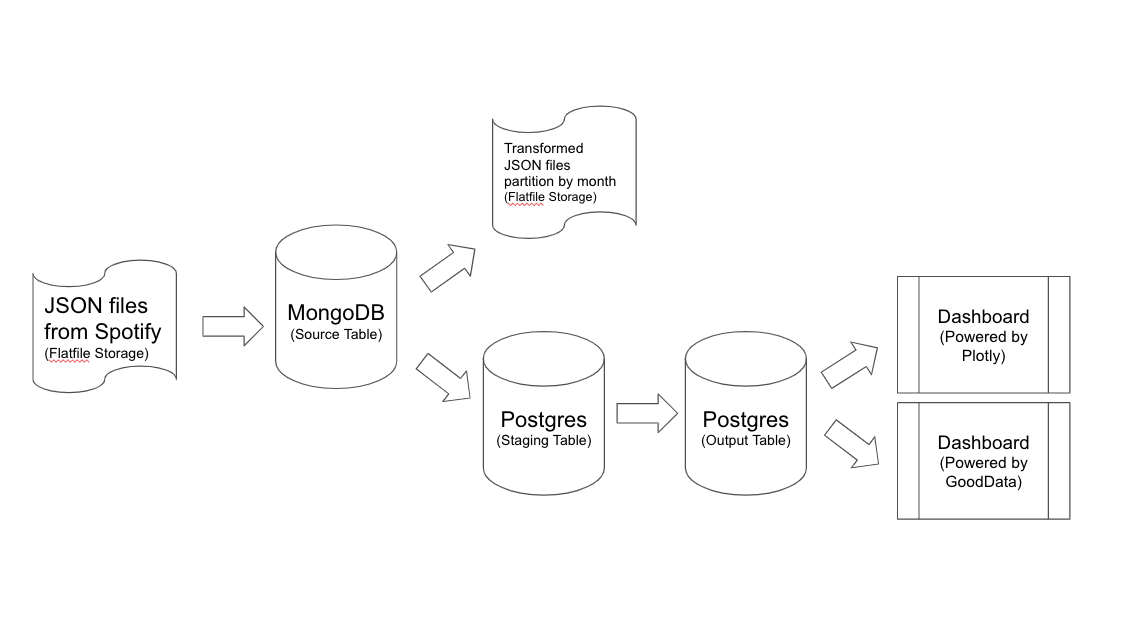
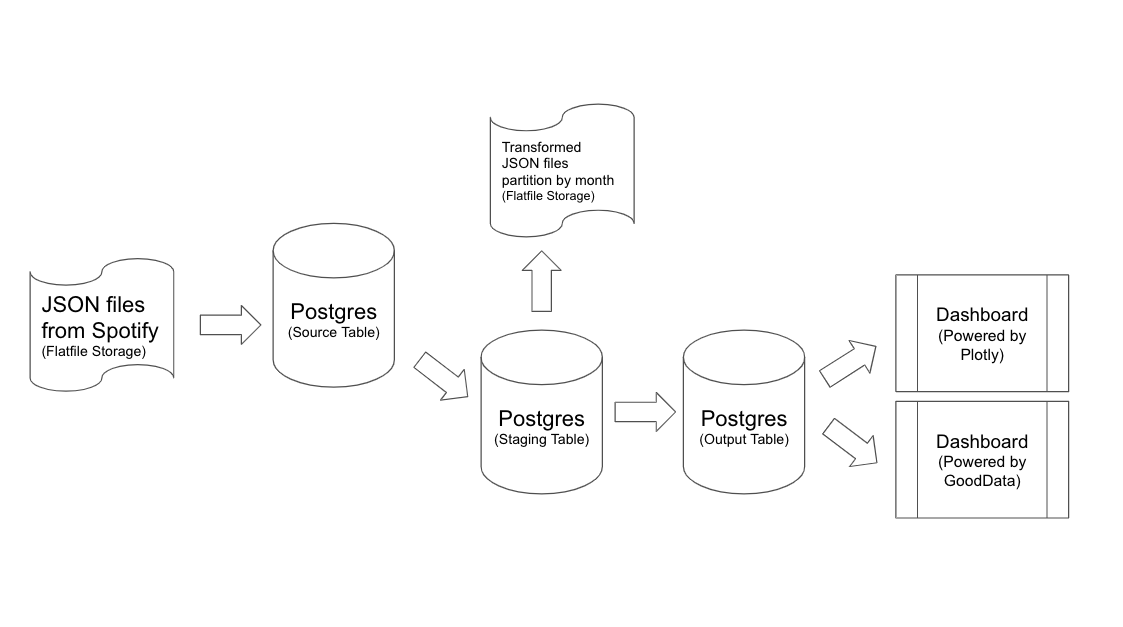
Give up MongoDB and fix Readme

diff --git a/Setup/readme.md b/Setup/readme.md
@@ -1,0 +1,23 @@
+# Setup
+Coming soon...
+
+## Docker Setup
+Coming soon...
+
+<br><br>
+<ul>
+	<li>Airflow</li>
+	<li>Postgres</li>
+	<li>GoodData</li>
+	<li>Customized Docker Image</li>
+</ul>
+
+```
+# Step 1: Initiate Airflow
+docker-compose -d airflow-init
+
+# Step 2: Initiate the whole docker network
+docker-compose -d up
+```
+
+Note: <i>Data</i> folder is mapped to the <i>Data</i> folder on the local setting.

diff --git a/readme.md b/readme.md
@@ -20,7 +20,6 @@ We will be using the following tools:
 
 <ul>
 	<li>Docker</li>
-	<li>MongoDB</li>
 	<li>Postgres</li>
 	<li>Airflow</li>
 	<li>Python 
